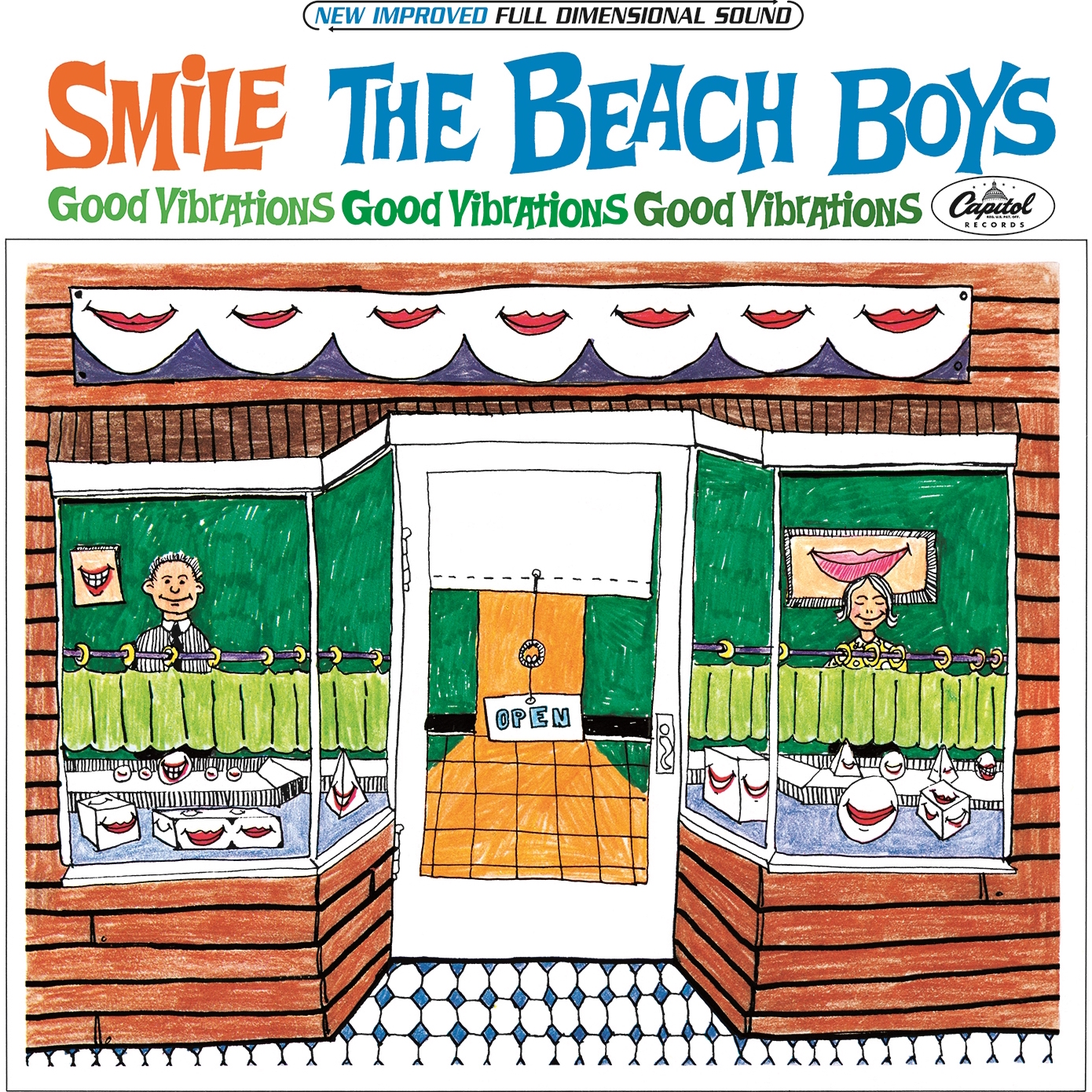
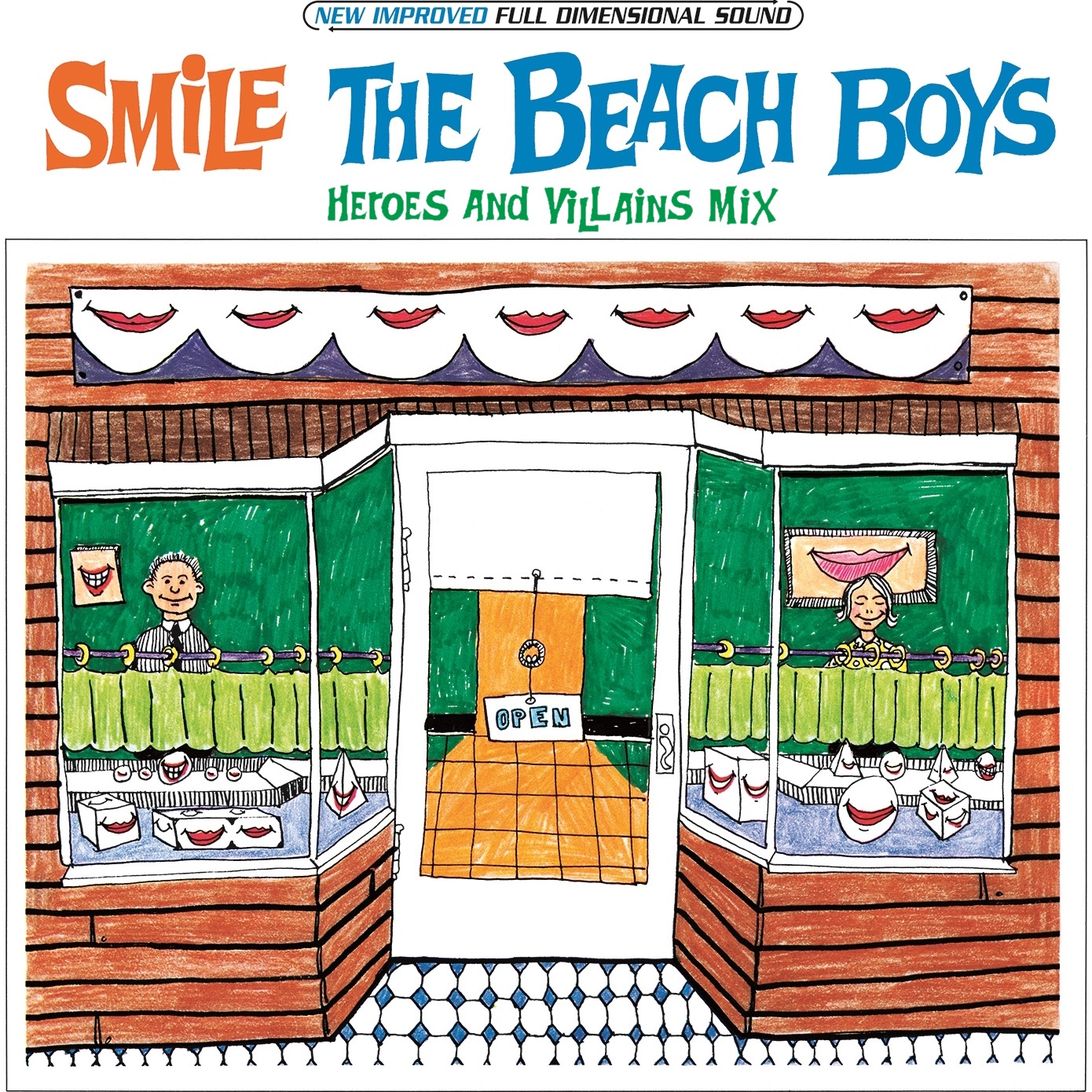
New project page - Sketches - Sketchbook theme added - Heroes and Villains page updated

Changed region(s): [[0.0309, 0.1547, 0.959, 0.2165]]

diff --git a/css/min/main.min.css b/css/min/main.min.css
@@ -1,1 +1,1 @@
-menu ul,pre{line-height:16px}body,main,menu ul{text-align:center}h1,main{width:auto}menu ul,time{margin-top:0}h1,time{margin-bottom:11px}#navigation-next,#navigation-previous,h1,menu ul li{display:inline-block}article img,main,time{display:block}main,menu ul{position:relative}body:before,hr:after,hr:before{content:""}html,input,textarea{font-family:system,-apple-system,".SFNSDisplay-Regular","San Francisco",HelveticaNeue,"Helvetica Neue",Helvetica,"Segoe UI",Arial,"Lucida Grande",sans-serif}h1{font-family:system,-apple-system,".SFNSDisplay-Ultralight","San Francisco",HelveticaNeueUltraLight,HelveticaNeue-UltraLight,'Helvetica Neue UltraLight',HelveticaNeue-Ultra-Light,"Helvetica Neue Ultra Light","Segoe UI",HelveticaNeue,"Helvetica Neue",Arial,sans-serif;font-weight:100;font-size:45px;line-height:45px;margin-top:11px}code,pre{font-family:Menlo,Consolas,Monaco,"Courier New",monospace}html{-webkit-font-smoothing:antialiased;background-color:#fff}input,textarea{letter-spacing:1px!important}code:after,code:before{letter-spacing:-.2em}h2,h3{font-weight:500}strong,table th{font-weight:700}blockquote,em{font-style:italic}.weak,figcaption,h4,time{color:#979797}h2{font-size:24px;line-height:34px;margin-top:22px}#bottom-navigation,h3,h4{font-size:19px;line-height:28px}menu ul{letter-spacing:.1px;font-size:16px;list-style-type:none;padding:0}#page-footer-text,blockquote,h5,ol,p,table,time,ul{font-size:14px}#page-footer-text,time{line-height:14px}#archive-list li,blockquote,h5,ol,p,table,ul{line-height:22px}.footnotes ol,.footnotes ol li p,button,code,figcaption,h6,input,pre>code,select,textarea{font-size:12px}h6{line-height:19px}.footnotes ol,.footnotes ol li p,figcaption{line-height:20px}body,html{height:100%}main{padding-left:5%;padding-right:5%;max-width:463px;margin:35px auto}.wide-page main{max-width:546px}.extra-wide-page main{max-width:100%;padding:0}#content{overflow:auto;overflow-x:hidden}menu ul li{padding-top:0;transition:background-color .1s linear;margin:0 -2.5px}menu ul li a{display:list-item;padding:6px .94em;color:#fff}h2,h3,ol,p,time,ul{text-align:left}#archive-list,h3,ol,ol li,p,ul,ul li{margin:22px 0}ol,ul{padding-left:33px}ol{list-style-type:decimal}ul{list-style-type:initial}blockquote>:last-child,ol li>:last-child,ul li>:last-child{margin-bottom:0}#archive-list{list-style:none;padding-left:0}#archive-list li{margin:0}blockquote{padding-left:15px;border-left:4px solid #e8e8e8;color:#828282}.underline{text-decoration:underline}#navigation-previous{float:left;text-align:left}#navigation-next{float:right;text-align:right}.action-category,.center,.round-button,article img,figure p{text-align:center}img{max-width:100%;max-height:100%;width:auto\9}article img{margin:0 auto}figcaption{letter-spacing:.0625em;padding:0 5%;margin-top:-11px;margin-bottom:22px}.bound-responsive,.edge-to-edge,.inline,.responsive,.shy-banner{display:inline-block;height:auto;width:100vw;max-width:1600px;max-height:none;margin-left:-30vw;margin-right:-30vw}.screenshot-shadow{box-shadow:0 8px 16px rgba(0,0,0,.25)}.ios-one-screen,.ios-three-screens,.ios-two-screens{border-radius:4px}.ios-one-screen{max-width:70vw}.ios-two-screens{max-width:43vw;margin-left:3vw;margin-right:3vw}.ios-three-screens{max-width:28vw;margin-left:2vw;margin-right:2vw}video{top:0;left:0;max-width:100%;width:100%;height:auto}.footnotes ol{margin-left:16px;padding-left:0}.footnotes ol>:last-child{margin-bottom:0}.footnotes ol,.footnotes ol li p{margin-top:0}hr{margin:44px 0;border:none}article hr,footer hr{border:none;height:1px;background:#E5E5E5;background:-moz-linear-gradient(left,#FFF 0,#E5E5E5 25%,#E5E5E5 50%,#E5E5E5 75%,#FFF 100%);background:-webkit-gradient(linear,left top,right top,color-stop(0,#FFF),color-stop(25%,#E5E5E5),color-stop(50%,#E5E5E5),color-stop(75%,#E5E5E5),color-stop(100%,#FFF));background:-webkit-linear-gradient(left,#FFF 0,#E5E5E5 25%,#E5E5E5 50%,#E5E5E5 75%,#FFF 100%);background:-o-linear-gradient(left,#FFF 0,#E5E5E5 25%,#E5E5E5 50%,#E5E5E5 75%,#FFF 100%);background:-ms-linear-gradient(left,#FFF 0,#E5E5E5 25%,#E5E5E5 50%,#E5E5E5 75%,#FFF 100%);background:linear-gradient(to right,#FFF 0,#E5E5E5 25%,#E5E5E5 50%,#E5E5E5 75%,#FFF 100%);filter:progid:DXImageTransform.Microsoft.gradient( startColorstr='#FFFFFF', endColorstr='#FFFFFF', GradientType=1 )}table{width:100%;margin-top:22px;margin-bottom:22px;word-break:normal;word-break:keep-all}.highlight,.highlight pre,pre>code{word-break:normal}hr:after,hr:before{display:table}#logo-image,.action-category,.inline-block,pre,pre>code{display:inline-block}hr:after{clear:both}button{height:25px}.button-default,.button-hover,.experience-company-button,.news-logo-button,.round-button,.social-site-button{position:relative;display:inline-block}.round-button{width:30px;height:30px;margin-left:5px;margin-right:5px}.button-hover{opacity:0}.button-hover:hover,h1:hover #logo-eye-closed,svg #logo-eye-opened{opacity:1}.experience-company-button img,.icon-button img,.news-logo-button img,.round-button img,.social-site-button img{position:absolute;left:0;top:0;-webkit-transition:opacity .25s linear;-moz-transition:opacity .25s linear;-o-transition:opacity .25s linear;transition:opacity .25s linear}.center{width:auto;margin:0 auto}.vertical-top{vertical-align:top}.large-top-pad{margin-top:44px}.large-bottom-pad{margin-bottom:44px}.massive-left-pad{padding-left:33px}.divider{margin:0 22px}.banner-header-padding{margin-top:0!important;padding-top:0!important}.banner-top-padding{margin-top:-35px}#logo-image{width:32px;height:32px;padding-top:1px}#logo-text{height:35px;margin-top:-1px}.anchor,h1:hover #logo-eye-opened,svg #logo-eye-closed{opacity:0}#wrap{min-height:100%}#page-footer{position:relative;height:18px;margin-top:-18px;clear:both}#page-footer-text{height:auto;padding-top:2px}#page-footer-text a{color:#fff}body:before{height:100%;float:left;width:0;margin-top:-32767px}.anchor{color:currentcolor;text-decoration:none;padding:0 .34em;transition:opacity .2s ease-in-out;float:none;margin-left:0}.anchored .anchor:hover,.anchored:hover .anchor{opacity:1}#actions-sheet{padding-top:66px}.action-label{padding-bottom:11px;color:#979797}.action-category{max-width:122px;width:auto;margin:0 44px}pre{width:100vw;height:auto;max-width:1600px;max-height:none;-webkit-text-size-adjust:none;margin:22px -28vw}code{padding:0;margin:0}pre>code{padding:0;margin:0 18px;border:0;-ms-overflow-style:none;overflow:-moz-scrollbars-none;max-width:initial;line-height:inherit;background-color:transparent;white-space:pre}.highlight pre,pre{padding-top:1em;padding-bottom:1em;background-color:#272821;color:#fff;overflow:scroll;text-align:left;-moz-tab-size:4;-o-tab-size:4;tab-size:4}pre code:after,pre code:before{content:normal}code ::-moz-selection,code::-moz-selection,pre ::-moz-selection,pre::-moz-selection{text-shadow:none;background:hsla(54,8%,26%,.9)}code ::selection,code::selection,pre ::selection,pre::selection{text-shadow:none;background:hsla(54,8%,26%,.9)}:not(pre)>code{background-color:rgba(0,0,0,.07);border-radius:4px;padding:.15em .4em;margin-left:0;margin-right:0;word-wrap:break-word}a>code{color:#000}.highlight{width:100%;white-space:pre;word-spacing:normal}@media (min-width:43.75rem){main,menu ul{padding-left:0;padding-right:0}menu ul{letter-spacing:0;line-height:22px}h1{font-size:68px;line-height:34px}h2{font-size:30px;line-height:41px;margin-top:25px}#bottom-navigation,h3,h4,h5,menu ul{font-size:24px}h3,h4{line-height:33px}#page-footer-text,blockquote,h5,ol,p,table,time,ul{font-size:16px}#page-footer-text{line-height:16px}time{line-height:20px;margin-bottom:12.5px}#archive-list li,blockquote,h5,ol,p,table,ul{line-height:25px}.footnotes ol,.footnotes ol li p,button,code,figcaption,h6,input,pre>code,select,textarea{font-size:14px}pre{line-height:18px}.footnotes ol,.footnotes ol li p,figcaption{line-height:23px}h6{line-height:21px}main{max-width:529px;margin-top:45px;margin-bottom:45px}.wide-page main{max-width:648px}menu ul li{padding-top:0;margin-left:-3.3px;margin-right:-3.3px}menu ul li a{padding:8px 28px}.massive-left-pad,ol,ul{padding-left:50px}#archive-list,h1,h3,ol,ol li,p,ul,ul li{margin:25px 0}figcaption{margin-top:-12.5px;margin-bottom:25px}.reserved-mode main article .edge-to-edge{display:block;width:100%;margin:0;max-width:800px;border-radius:4px}.bound-responsive{max-width:650px;width:auto;border-radius:4px}.ios-one-screen,.ios-three-screens,.ios-two-screens{max-width:28vw;margin:0 2vw}.inline{max-width:529px}.footnotes ol{margin-left:18px}hr{margin:50px -28vw;max-width:840px;display:inline-block;width:80vw}article hr,footer hr{margin:25px 0;max-width:529px}table{margin-top:25px;margin-bottom:25px}.bigfoot-footnote__button{font-size:16px}button{height:27px}.large-top-pad{margin-top:50px}.large-bottom-pad{margin-bottom:50px}.divider{margin:0 50px}.banner-top-padding{margin-top:-45px}#logo-image{width:48px;height:48px}#logo-text{height:52px}#page-footer{padding-top:2px;height:23px;margin-top:-25px}.anchor{float:left;margin-left:-1.3em}#actions-sheet{padding-top:75px}.action-label{padding-bottom:12.5px}.action-category{margin:0 50px}pre{margin-top:25px;margin-bottom:25px}}@media (min-width:56.25em){figcaption,table{margin-bottom:27px}.shy-banner,pre{border-radius:4px}h1{font-size:91px;line-height:45px}h2{font-size:35px;line-height:48px;margin-top:27px}#bottom-navigation,h3,h4,h5,menu ul{font-size:27px;line-height:27px}#archive-list li,blockquote,h5,menu ul,ol,p,table,ul{line-height:27px}#bottom-navigation,h3,h4{line-height:38px}#page-footer-text,blockquote,h5,ol,p,table,time,ul{font-size:18px}#page-footer-text{line-height:18px}time{line-height:23px;margin-bottom:13.5px}.footnotes ol,.footnotes ol li p,button,code,figcaption,h6,input,pre>code,select,textarea{font-size:16px}pre{line-height:20px}.footnotes ol,.footnotes ol li p,figcaption,h6{line-height:25px}main{max-width:595px;margin-top:50px;margin-bottom:50px}.wide-page main{max-width:764px}.extra-wide-page main{max-width:1200px}menu ul li a{padding-left:41px;padding-right:41px}.massive-left-pad,ol,ul{padding-left:54px}#archive-list,h1,h3,ol,ol li,p,ul,ul li{margin:27px 0}figcaption{margin-top:-13.5px}.bound-responsive{max-width:800px}.inline{max-width:595px}.responsive{max-width:1158px;width:100vw}.shy-banner{max-width:100%;width:auto;margin-left:0;margin-right:0;margin-top:54px}.ios-one-screen,.ios-three-screens,.ios-two-screens{width:25vw;max-width:355px}.ios-two-screens{margin-left:20px;margin-right:20px}.ios-three-screens{margin-left:14px;margin-right:14px}.footnotes ol{margin-left:27px}hr{margin:54px -28vw;display:inline-block;width:82vw;max-width:1158px;min-width:810px}article hr,footer hr{margin:27px 0;width:100%;max-width:none;min-width:595px}table{margin-top:27px}.bigfoot-footnote__button{font-size:18px}button{height:28px}.large-top-pad{margin-top:54px}.large-bottom-pad{margin-bottom:54px}.banner-top-padding{margin-top:-50px}.divider{margin:0 54px}#logo-image{width:64px;height:64px;padding-top:2px}#logo-text{height:70px;margin-top:-2px}#actions-sheet{padding-top:81px}.action-label{padding-bottom:13.5px}.action-category{margin:0 54px}pre{margin-top:27px;margin-bottom:27px;max-width:1200px;width:800px}}
+menu ul,pre{line-height:16px}body,main,menu ul{text-align:center}h1,main{width:auto}menu ul,time{margin-top:0}h1,time{margin-bottom:11px}#navigation-next,#navigation-previous,h1,menu ul li{display:inline-block}article img,main,time{display:block}main,menu ul{position:relative}body:before,hr:after,hr:before{content:""}html,input,textarea{font-family:system,-apple-system,".SFNSDisplay-Regular","San Francisco",HelveticaNeue,"Helvetica Neue",Helvetica,"Segoe UI",Arial,"Lucida Grande",sans-serif}h1{font-family:system,-apple-system,".SFNSDisplay-Ultralight","San Francisco",HelveticaNeueUltraLight,HelveticaNeue-UltraLight,'Helvetica Neue UltraLight',HelveticaNeue-Ultra-Light,"Helvetica Neue Ultra Light","Segoe UI",HelveticaNeue,"Helvetica Neue",Arial,sans-serif;font-weight:100;font-size:45px;line-height:45px;margin-top:11px}code,pre{font-family:Menlo,Consolas,Monaco,"Courier New",monospace}html{-webkit-font-smoothing:antialiased;background-color:#fff}input,textarea{letter-spacing:1px!important}code:after,code:before{letter-spacing:-.2em}h2,h3{font-weight:500}strong,table th{font-weight:700}blockquote,em{font-style:italic}.weak,figcaption,h4,time{color:#979797}h2{font-size:24px;line-height:34px;margin-top:22px}#bottom-navigation,h3,h4{font-size:19px;line-height:28px}menu ul{letter-spacing:.1px;font-size:16px;list-style-type:none;padding:0}#page-footer-text,blockquote,h5,ol,p,table,time,ul{font-size:14px}#page-footer-text,time{line-height:14px}#archive-list li,blockquote,h5,ol,p,table,ul{line-height:22px}.footnotes ol,.footnotes ol li p,button,code,figcaption,h6,input,pre>code,select,textarea{font-size:12px}h6{line-height:19px}.footnotes ol,.footnotes ol li p,figcaption{line-height:20px}body,html{height:100%}main{padding-left:5%;padding-right:5%;max-width:463px;margin:35px auto}.wide-page main{max-width:546px}.extra-wide-page main,.full-width-page main{max-width:100%;padding:0}#content{overflow:auto;overflow-x:hidden}menu ul li{padding-top:0;transition:background-color .1s linear;margin:0 -2.5px}menu ul li a{display:list-item;padding:6px .94em;color:#fff}h2,h3,ol,p,time,ul{text-align:left}#archive-list,h3,ol,ol li,p,ul,ul li{margin:22px 0}ol,ul{padding-left:33px}ol{list-style-type:decimal}ul{list-style-type:initial}blockquote>:last-child,ol li>:last-child,ul li>:last-child{margin-bottom:0}#archive-list{list-style:none;padding-left:0}#archive-list li{margin:0}blockquote{padding-left:15px;border-left:4px solid #e8e8e8;color:#828282}.underline{text-decoration:underline}#navigation-previous{float:left;text-align:left}#navigation-next{float:right;text-align:right}.action-category,.center,.round-button,article img,figure p{text-align:center}img{max-width:100%;max-height:100%;width:auto\9}article img{margin:0 auto}figcaption{letter-spacing:.0625em;padding:0 5%;margin-top:-11px;margin-bottom:22px}.bound-responsive,.edge-to-edge,.inline,.responsive,.shy-banner{display:inline-block;height:auto;width:100vw;max-width:1600px;max-height:none;margin-left:-30vw;margin-right:-30vw}.screenshot-shadow{box-shadow:0 8px 16px rgba(0,0,0,.25)}.ios-one-screen,.ios-three-screens,.ios-two-screens{border-radius:4px}.ios-one-screen{max-width:70vw}.ios-two-screens{max-width:43vw;margin-left:3vw;margin-right:3vw}.ios-three-screens{max-width:28vw;margin-left:2vw;margin-right:2vw}video{top:0;left:0;max-width:100%;width:100%;height:auto}.footnotes ol{margin-left:16px;padding-left:0}.footnotes ol>:last-child{margin-bottom:0}.footnotes ol,.footnotes ol li p{margin-top:0}hr{margin:44px 0;border:none}article hr,footer hr{border:none;height:1px;background:#E5E5E5;background:-moz-linear-gradient(left,#FFF 0,#E5E5E5 25%,#E5E5E5 50%,#E5E5E5 75%,#FFF 100%);background:-webkit-gradient(linear,left top,right top,color-stop(0,#FFF),color-stop(25%,#E5E5E5),color-stop(50%,#E5E5E5),color-stop(75%,#E5E5E5),color-stop(100%,#FFF));background:-webkit-linear-gradient(left,#FFF 0,#E5E5E5 25%,#E5E5E5 50%,#E5E5E5 75%,#FFF 100%);background:-o-linear-gradient(left,#FFF 0,#E5E5E5 25%,#E5E5E5 50%,#E5E5E5 75%,#FFF 100%);background:-ms-linear-gradient(left,#FFF 0,#E5E5E5 25%,#E5E5E5 50%,#E5E5E5 75%,#FFF 100%);background:linear-gradient(to right,#FFF 0,#E5E5E5 25%,#E5E5E5 50%,#E5E5E5 75%,#FFF 100%);filter:progid:DXImageTransform.Microsoft.gradient( startColorstr='#FFFFFF', endColorstr='#FFFFFF', GradientType=1 )}table{width:100%;margin-top:22px;margin-bottom:22px;word-break:normal;word-break:keep-all}.highlight,.highlight pre,pre>code{word-break:normal}hr:after,hr:before{display:table}#logo-image,.action-category,.inline-block,pre,pre>code{display:inline-block}hr:after{clear:both}button{height:25px}.button-default,.button-hover,.experience-company-button,.news-logo-button,.round-button,.social-site-button{position:relative;display:inline-block}.round-button{width:30px;height:30px;margin-left:5px;margin-right:5px}.button-hover{opacity:0}.button-hover:hover,h1:hover #logo-eye-closed,svg #logo-eye-opened{opacity:1}.experience-company-button img,.icon-button img,.news-logo-button img,.round-button img,.social-site-button img{position:absolute;left:0;top:0;-webkit-transition:opacity .25s linear;-moz-transition:opacity .25s linear;-o-transition:opacity .25s linear;transition:opacity .25s linear}.center{width:auto;margin:0 auto}.vertical-top{vertical-align:top}.large-top-pad{margin-top:44px}.large-bottom-pad{margin-bottom:44px}.massive-left-pad{padding-left:33px}.divider{margin:0 22px}.banner-header-padding{margin-top:0!important;padding-top:0!important}.banner-top-padding{margin-top:-35px}#logo-image{width:32px;height:32px;padding-top:1px}#logo-text{height:35px;margin-top:-1px}.anchor,h1:hover #logo-eye-opened,svg #logo-eye-closed{opacity:0}#wrap{min-height:100%}#page-footer{position:relative;height:18px;margin-top:-18px;clear:both}#page-footer-text{height:auto;padding-top:2px}#page-footer-text a{color:#fff}body:before{height:100%;float:left;width:0;margin-top:-32767px}.anchor{color:currentcolor;text-decoration:none;padding:0 .34em;transition:opacity .2s ease-in-out;float:none;margin-left:0}.anchored .anchor:hover,.anchored:hover .anchor{opacity:1}#actions-sheet{padding-top:66px}.action-label{padding-bottom:11px;color:#979797}.action-category{max-width:122px;width:auto;margin:0 44px}pre{width:100vw;height:auto;max-width:1600px;max-height:none;-webkit-text-size-adjust:none;margin:22px -28vw}code{padding:0;margin:0}pre>code{padding:0;margin:0 18px;border:0;-ms-overflow-style:none;overflow:-moz-scrollbars-none;max-width:initial;line-height:inherit;background-color:transparent;white-space:pre}.highlight pre,pre{padding-top:1em;padding-bottom:1em;background-color:#272821;color:#fff;overflow:scroll;text-align:left;-moz-tab-size:4;-o-tab-size:4;tab-size:4}pre code:after,pre code:before{content:normal}code ::-moz-selection,code::-moz-selection,pre ::-moz-selection,pre::-moz-selection{text-shadow:none;background:hsla(54,8%,26%,.9)}code ::selection,code::selection,pre ::selection,pre::selection{text-shadow:none;background:hsla(54,8%,26%,.9)}:not(pre)>code{background-color:rgba(0,0,0,.07);border-radius:4px;padding:.15em .4em;margin-left:0;margin-right:0;word-wrap:break-word}a>code{color:#000}.highlight{width:100%;white-space:pre;word-spacing:normal}@media (min-width:43.75rem){main,menu ul{padding-left:0;padding-right:0}menu ul{letter-spacing:0;line-height:22px}h1{font-size:68px;line-height:34px}h2{font-size:30px;line-height:41px;margin-top:25px}#bottom-navigation,h3,h4,h5,menu ul{font-size:24px}h3,h4{line-height:33px}#page-footer-text,blockquote,h5,ol,p,table,time,ul{font-size:16px}#page-footer-text{line-height:16px}time{line-height:20px;margin-bottom:12.5px}#archive-list li,blockquote,h5,ol,p,table,ul{line-height:25px}.footnotes ol,.footnotes ol li p,button,code,figcaption,h6,input,pre>code,select,textarea{font-size:14px}pre{line-height:18px}.footnotes ol,.footnotes ol li p,figcaption{line-height:23px}h6{line-height:21px}main{max-width:529px;margin-top:45px;margin-bottom:45px}.wide-page main{max-width:648px}menu ul li{padding-top:0;margin-left:-3.3px;margin-right:-3.3px}menu ul li a{padding:8px 28px}.massive-left-pad,ol,ul{padding-left:50px}#archive-list,h1,h3,ol,ol li,p,ul,ul li{margin:25px 0}figcaption{margin-top:-12.5px;margin-bottom:25px}.reserved-mode main article .edge-to-edge{display:block;width:100%;margin:0;max-width:800px;border-radius:4px}.bound-responsive{max-width:650px;width:auto;border-radius:4px}.ios-one-screen,.ios-three-screens,.ios-two-screens{max-width:28vw;margin:0 2vw}.inline{max-width:529px}.footnotes ol{margin-left:18px}hr{margin:50px -28vw;max-width:840px;display:inline-block;width:80vw}article hr,footer hr{margin:25px 0;max-width:529px}table{margin-top:25px;margin-bottom:25px}.bigfoot-footnote__button{font-size:16px}button{height:27px}.large-top-pad{margin-top:50px}.large-bottom-pad{margin-bottom:50px}.divider{margin:0 50px}.banner-top-padding{margin-top:-45px}#logo-image{width:48px;height:48px}#logo-text{height:52px}#page-footer{padding-top:2px;height:23px;margin-top:-25px}.anchor{float:left;margin-left:-1.3em}#actions-sheet{padding-top:75px}.action-label{padding-bottom:12.5px}.action-category{margin:0 50px}pre{margin-top:25px;margin-bottom:25px}}@media (min-width:56.25em){figcaption,table{margin-bottom:27px}.shy-banner,pre{border-radius:4px}h1{font-size:91px;line-height:45px}h2{font-size:35px;line-height:48px;margin-top:27px}#bottom-navigation,h3,h4,h5,menu ul{font-size:27px;line-height:27px}#archive-list li,blockquote,h5,menu ul,ol,p,table,ul{line-height:27px}#bottom-navigation,h3,h4{line-height:38px}#page-footer-text,blockquote,h5,ol,p,table,time,ul{font-size:18px}#page-footer-text{line-height:18px}time{line-height:23px;margin-bottom:13.5px}.footnotes ol,.footnotes ol li p,button,code,figcaption,h6,input,pre>code,select,textarea{font-size:16px}pre{line-height:20px}.footnotes ol,.footnotes ol li p,figcaption,h6{line-height:25px}main{max-width:595px;margin-top:50px;margin-bottom:50px}.wide-page main{max-width:764px}.extra-wide-page main{max-width:1200px}menu ul li a{padding-left:41px;padding-right:41px}.massive-left-pad,ol,ul{padding-left:54px}#archive-list,h1,h3,ol,ol li,p,ul,ul li{margin:27px 0}figcaption{margin-top:-13.5px}.bound-responsive{max-width:800px}.inline{max-width:595px}.responsive{max-width:1158px;width:100vw}.shy-banner{max-width:100%;width:auto;margin-left:0;margin-right:0;margin-top:54px}.ios-one-screen,.ios-three-screens,.ios-two-screens{width:25vw;max-width:355px}.ios-two-screens{margin-left:20px;margin-right:20px}.ios-three-screens{margin-left:14px;margin-right:14px}.footnotes ol{margin-left:27px}hr{margin:54px -28vw;display:inline-block;width:82vw;max-width:1158px;min-width:810px}article hr,footer hr{margin:27px 0;width:100%;max-width:none;min-width:595px}table{margin-top:27px}.bigfoot-footnote__button{font-size:18px}button{height:28px}.large-top-pad{margin-top:54px}.large-bottom-pad{margin-bottom:54px}.banner-top-padding{margin-top:-50px}.divider{margin:0 54px}#logo-image{width:64px;height:64px;padding-top:2px}#logo-text{height:70px;margin-top:-2px}#actions-sheet{padding-top:81px}.action-label{padding-bottom:13.5px}.action-category{margin:0 54px}pre{margin-top:27px;margin-bottom:27px;max-width:1200px;width:800px}}

diff --git a/projects/music/smile-heroes-and-villains-mix/index.html b/projects/music/smile-heroes-and-villains-mix/index.html
@@ -5,11 +5,9 @@ color: orange
 title: "SMiLE: Heroes and Villains Mix"
 ---
 
-<h2 style="margin-top:0px;" class="center large-bottom-pad">SMiLE: Heroes and Villains Mix</h2>
-
 <a href="/images/projects/music/smile-heroes-and-villains-mix/cover.jpg"><img src="/images/projects/music/smile-heroes-and-villains-mix/cover.jpg" class="large-bottom-pad" alt="Vinyl vector" /></a>
 
-<iframe width="100%" height="100" scrolling="no" frameborder="no" src="https://w.soundcloud.com/player/?url=https%3A//api.soundcloud.com/tracks/236277012&amp;auto_play=false&amp;hide_related=true&amp;show_comments=false&amp;show_user=false&amp;show_reposts=false&amp;visual=false"></iframe>
+<iframe width="100%" height="100" scrolling="no" frameborder="no" src="https://w.soundcloud.com/player/?url=https%3A//api.soundcloud.com/tracks/255075143&amp;auto_play=false&amp;hide_related=true&amp;show_comments=false&amp;show_user=false&amp;show_reposts=false&amp;visual=false"></iframe>
 
 <p class="large-top-pad">In 1966, hot off recording "Pet Sounds" and with The Beatles' "Sgt. Pepper's Lonely Hearts Club Band" in hot pursuit, Brian Wilson of The Beach Boys joined forces with <a href="https://en.wikipedia.org/wiki/Van_Dyke_Parks">Van Dyke Parks</a> to begin constructing what would later be referred to by many as <a href="http://artsbeat.blogs.nytimes.com/2011/08/31/unfinished-beach-boys-album-is-set-for-release-44-years-later/?_r=0">one of the most famous unfinished recordings in history</a>. Originally envisioned as a loving homage to Americana, it featured chanting Native Americans, bar brawls, barbershop quartets, a coast-to-coast motorcycle trip, enlightenment, and some good, good vibrations resulting in what can only be referred to as a teenage symphony to God.</p>
 
@@ -25,8 +23,8 @@ title: "SMiLE: Heroes and Villains Mix"
 
 <ul>
 	<li><a href="http://albumsthatneverwere.blogspot.com">soniclovenoize</a>'s absolutely stellar <a href="http://albumsthatneverwere.blogspot.com/2012/06/beach-boys-smile-soniclovenoize-stereo.html">BWPS 2004 Stereo Mix</a> whose reconstructions of Vega-Tables and Cabin Essence (among other bits and bobs) were pulled directly for mine. My thanks to him, and you can check out his other amazing album reconstructions at his website <a href="http://albumsthatneverwere.blogspot.com">here</a>.</li>
-	<li><a href="https://www.youtube.com/channel/UC1S4I1pBbqUzthH4AUtwMFg">adwolf16</a>'s <a href="https://www.youtube.com/watch?v=mJb8ZQdLTzY&list=LLt6yrzumV3rjgXbAPGmm0eQ&index=9">SMiLE Recreation - Suite One</a> which greatly influenced the first movement of my reconstruction and even features a snippet from his wonderful a cappella rendition of a movement hinted at with piano from the H&V tapes.</li>
-	<li>Mark Hardy's now taken down <a href="https://www.youtube.com/watch?v=iHKstT6EqXY&app=desktop">SMiLE - An Approximation</a> mix which was the general inspiration for my recreation. A snippet from this was used for my "Do You Like Worms?" mix.</li>
+	<li><a href="https://www.youtube.com/channel/UC1S4I1pBbqUzthH4AUtwMFg">adwolf16</a>'s <a href="https://www.youtube.com/watch?v=mJb8ZQdLTzY&list=LLt6yrzumV3rjgXbAPGmm0eQ&index=9">SMiLE Recreation - Suite One</a> which greatly influenced the first movement of my reconstruction and even features a snippet from his wonderful a cappella rendition of a movement hinted at with piano from the Heroes and Villains tapes.</li>
+	<li>Mark Hardy's now taken down <a href="https://www.youtube.com/watch?v=iHKstT6EqXY&app=desktop">SMiLE - An Approximation</a> mix which was the general inspiration for my recreation.</li>
 </ul>
 
 <!-- <img src="/images/projects/music/smile-heroes-and-villains-mix/tracks-shadows.png" alt="Image of the Garageband project used for reconstructing the album" /> -->

diff --git a/css/theme-sketchbook.css b/css/theme-sketchbook.css
@@ -2,37 +2,17 @@
 Main Menu
 */
 menu ul li:hover > a {
-    color: #979797; /*Foreground color of menu on hover*/
+    color: #733041; /*Foreground color of menu on hover*/
+    background-color: transparent;
 }
 menu ul, .main-color {
-    background-color: #F68048;
-    animation: rgb 60s infinite;
-    -webkit-transition: .2s;
-    -moz-transition: .2s;
-    transition: .2s;
-}
-@keyframes rgb {
-    17% {
-        background-color: #EEBC4E;
-    }
-    33% {
-        background-color: #71C152;
-    }
-    50% {
-        background-color: #0AA0D2;
-    }
-    66% {
-        background-color: #973D8E;
-    }
-    83% {
-        background-color: #E13646;
-    }
-    100% {
-        background-color: #F68048;
-    }
+    background-color: #733041;
 }
 .hover:hover {
-    background-color: white;
+    background-color: #FBFCFA;
+}
+#content {
+    background-image: url(/images/projects/art/sketches/notes.jpg);
 }
 
 /*
@@ -40,50 +20,54 @@ Highlight Color
 */
 /* Safari */
 ::selection {
-    background: #979797;
-    color: white;
+    background: #733041;
+    color: #FBFCFA;
 }
 /* Firefox */
 ::-moz-selection {
-    background: #979797;
-    color: white;
+    background: #733041;
+    color: #FBFCFA;
+}
+
+hr {
+    border-top: 3px solid #733041;
 }
 
 /*
 Text Links
 */
 main :not(h2) > a {
-    color: #979797;
+    color: #733041;
     -webkit-transition: color .2s linear;
     transition: color .2s linear;
 }
 /* unvisited link */
 main :not(h2) > a:link {
-    color: #979797;
+    color: #733041;
 }
 /* visited link */
 main :not(h2) > a:visited {
-    color: #979797;
+    color: #733041;
 }
 main :not(h2) > a:hover {
-    color: #333333;
+    color: #8CDC7B;
     -webkit-transition: color .2s linear;
     transition: color .2s linear;
 }
 
-a > h2, h1 a {
-    color: #979797;
+h1 a {
+    color: #733041;
     -webkit-transition: color .2s ease;
     transition: color .2s ease;
 }
-a > h2:link, h1 a:link {
+h1 a:link {
     color: black;
 }
-a > h2:visited, h1 a:visited {
+h1 a:visited {
     color: black;
 }
-a > h2:hover, h1 a:hover {
-    color: #979797;
+h1 a:hover {
+    color: #733041;
     -webkit-transition: color .2s ease;
     transition: color .2s ease;
 }
@@ -94,18 +78,18 @@ a > h2:hover, h1 a:hover {
     transition: fill .2s ease;
 }
 h1:hover #logo-color {
-    fill: #979797;
+    fill: #733041;
     -webkit-transition: fill .2s ease;
     transition: fill .2s ease;
 }
 
 .anchor {
-    color: #333333 !important;
+    color: #733041 !important;
     -webkit-transition: color .2s ease;
     transition: color .2s ease;
 }
 .anchor:hover {
-    color: #979797 !important;
+    color: #8CDC7B !important;
     -webkit-transition: color .2s linear;
     transition: color .2s linear;
 }

diff --git a/projects/art/sketches/index.html b/projects/art/sketches/index.html
@@ -1,0 +1,38 @@
+---
+layout: default-full-width
+viewing-single-page: true
+color: sketchbook
+title: "Sketches"
+page-specific:
+  - sketches.min.css
+---
+
+<h2 class="large-bottom-pad center">Sketches</h2>
+
+<a href="/images/projects/art/sketches/dungeons-and-dragons-map.png">
+	<img class="sketch" src="/images/projects/art/sketches/dungeons-and-dragons-map-small.png" />
+</a>
+<a href="/images/projects/art/sketches/goku.png">
+	<img class="sketch" src="/images/projects/art/sketches/goku-small.png" />
+</a>
+<a href="/images/projects/art/sketches/multitasking-misconceptions-1.png">
+	<img class="sketch" src="/images/projects/art/sketches/multitasking-misconceptions-1-small.png" />
+</a>
+<a href="/images/projects/art/sketches/multitasking-misconceptions-2.png">
+	<img class="sketch" src="/images/projects/art/sketches/multitasking-misconceptions-2-small.png" />
+</a>
+<a href="/images/projects/art/sketches/multitasking-misconceptions-3.png">
+	<img class="sketch" src="/images/projects/art/sketches/multitasking-misconceptions-3-small.png" />
+</a>
+<a href="/images/projects/art/sketches/multitasking-misconceptions-4.png">
+	<img class="sketch" src="/images/projects/art/sketches/multitasking-misconceptions-4-small.png" />
+</a>
+<a href="/images/projects/art/sketches/multitasking-misconceptions-5.png">
+	<img class="sketch" src="/images/projects/art/sketches/multitasking-misconceptions-5-small.png" />
+</a>
+<a href="/images/projects/art/sketches/turtles-hares-and-hot-rods.png">
+	<img class="sketch" src="/images/projects/art/sketches/turtles-hares-and-hot-rods-small.png" />
+</a>
+<a href="/images/projects/art/sketches/why-vinyl.png">
+	<img class="sketch" src="/images/projects/art/sketches/why-vinyl-small.png" />
+</a>

diff --git a/css/min/theme-sketchbook.min.css b/css/min/theme-sketchbook.min.css
@@ -1,0 +1,1 @@
+menu ul li:hover>a{color:#733041;background-color:transparent}.main-color,menu ul{background-color:#733041}.hover:hover{background-color:#FBFCFA}#content{background-image:url(/images/projects/art/sketches/notes.jpg)}::selection{background:#733041;color:#FBFCFA}::-moz-selection{background:#733041;color:#FBFCFA}hr{border-top:3px solid #733041}main :not(h2)>a{color:#733041;-webkit-transition:color .2s linear;transition:color .2s linear}main :not(h2)>a:link,main :not(h2)>a:visited{color:#733041}main :not(h2)>a:hover{color:#8CDC7B;-webkit-transition:color .2s linear;transition:color .2s linear}h1 a,h1 a:hover{color:#733041;-webkit-transition:color .2s ease;transition:color .2s ease}h1 a:link,h1 a:visited{color:#000}#logo-color{fill:#000;-webkit-transition:fill .2s ease;transition:fill .2s ease}h1:hover #logo-color{fill:#733041;-webkit-transition:fill .2s ease;transition:fill .2s ease}.anchor{color:#733041!important;-webkit-transition:color .2s ease;transition:color .2s ease}.anchor:hover{color:#8CDC7B!important;-webkit-transition:color .2s linear;transition:color .2s linear}

diff --git a/_layouts/default-full-width.html b/_layouts/default-full-width.html
@@ -1,0 +1,33 @@
+<!DOCTYPE html>
+<!--[if IE 6]>
+<html id="ie6" lang="en-US" prefix="og: http://ogp.me/ns#">
+<![endif]-->
+<!--[if IE 7]>
+<html id="ie7" lang="en-US" prefix="og: http://ogp.me/ns#">
+<![endif]-->
+<!--[if IE 8]>
+<html id="ie8" lang="en-US" prefix="og: http://ogp.me/ns#">
+<![endif]-->
+<!--[if !(IE 6) | !(IE 7) | !(IE 8)  ]><!-->
+<html lang="en-US" prefix="og: http://ogp.me/ns#">
+<!--<![endif]-->
+
+	{% include head.html %}
+
+	<body>
+		<div id="wrap">
+			<div id="content" class="center {% if page.banner-image %}banner-header-padding{% endif %} {% if page.viewing-single-page != true %}reserved-mode{% endif %} full-width-page">
+				
+				{% include header-happy.html %}
+				
+				<main>
+
+					{{ content }}
+
+				</main>
+			</div>
+		</div>
+
+		{% include footer.html %}
+	</body>
+</html>

diff --git a/projects/index.html b/projects/index.html
@@ -21,6 +21,9 @@ title: "Projects"
 	<a href="https://github.com/barrowclift" target="_blank">
 		<img src="/images/projects/code/github/project-banner.jpg" alt="Github account" class="project" />
 	</a>
+	<a href="/projects/art/sketches/">
+		<img src="/images/projects/art/sketches/project-banner.jpg" alt="Sketches" class="project" />
+	</a>
 	<a href="http://badmusichertz.com" target="_blank">
 		<img src="/images/projects/music/bad-music-hertz/project-banner.jpg" alt="Bad Music Hertz Blog" class="project" />
 	</a>

diff --git a/css/page-specific/sketches.css b/css/page-specific/sketches.css
@@ -1,0 +1,16 @@
+.sketch {
+	display: block;
+	max-height: none;
+	max-width: 100%;
+	padding-top: 8vw;
+	padding-bottom: 8vw;
+}
+/* Small devices (iPads) */
+@media (min-width: 43.75rem) {
+	.sketch {
+		display: inline-block;
+		max-height: 40vw;
+		max-width: 35vw;
+		padding: 3vw;
+	}
+}

diff --git a/css/page-specific/min/sketches.min.css b/css/page-specific/min/sketches.min.css
@@ -1,0 +1,1 @@
+.sketch{display:block;max-height:none;max-width:100%;padding-top:8vw;padding-bottom:8vw}@media (min-width:43.75rem){.sketch{display:inline-block;max-height:40vw;max-width:35vw;padding:3vw}}

diff --git a/css/main.css b/css/main.css
@@ -145,6 +145,10 @@ main {
     max-width: 100%;
     padding:0;
 }
+.full-width-page main {
+    max-width: 100%;
+    padding:0;
+}
 
 
 #content {
